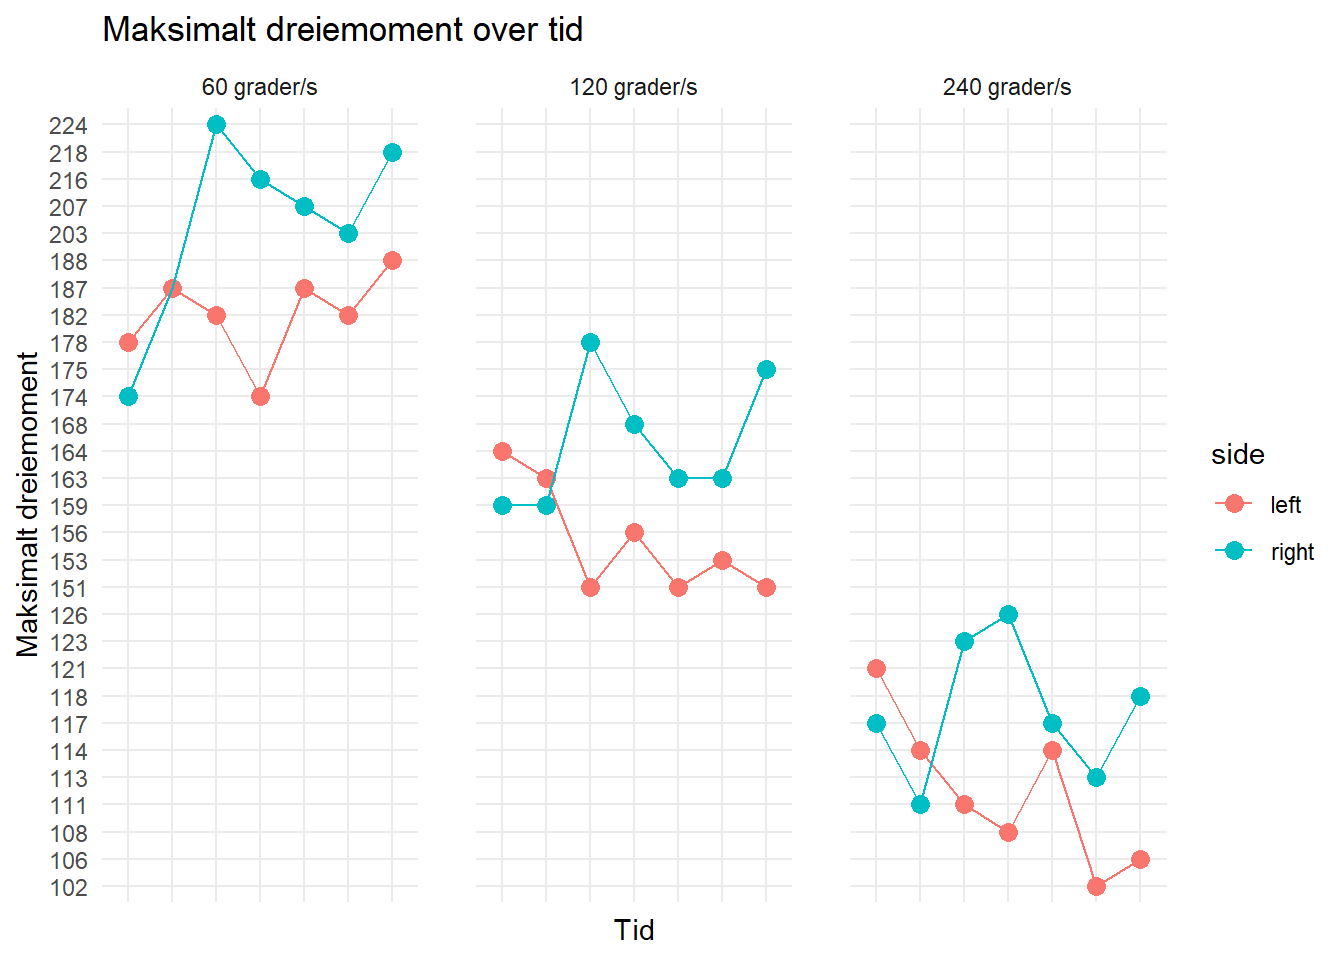
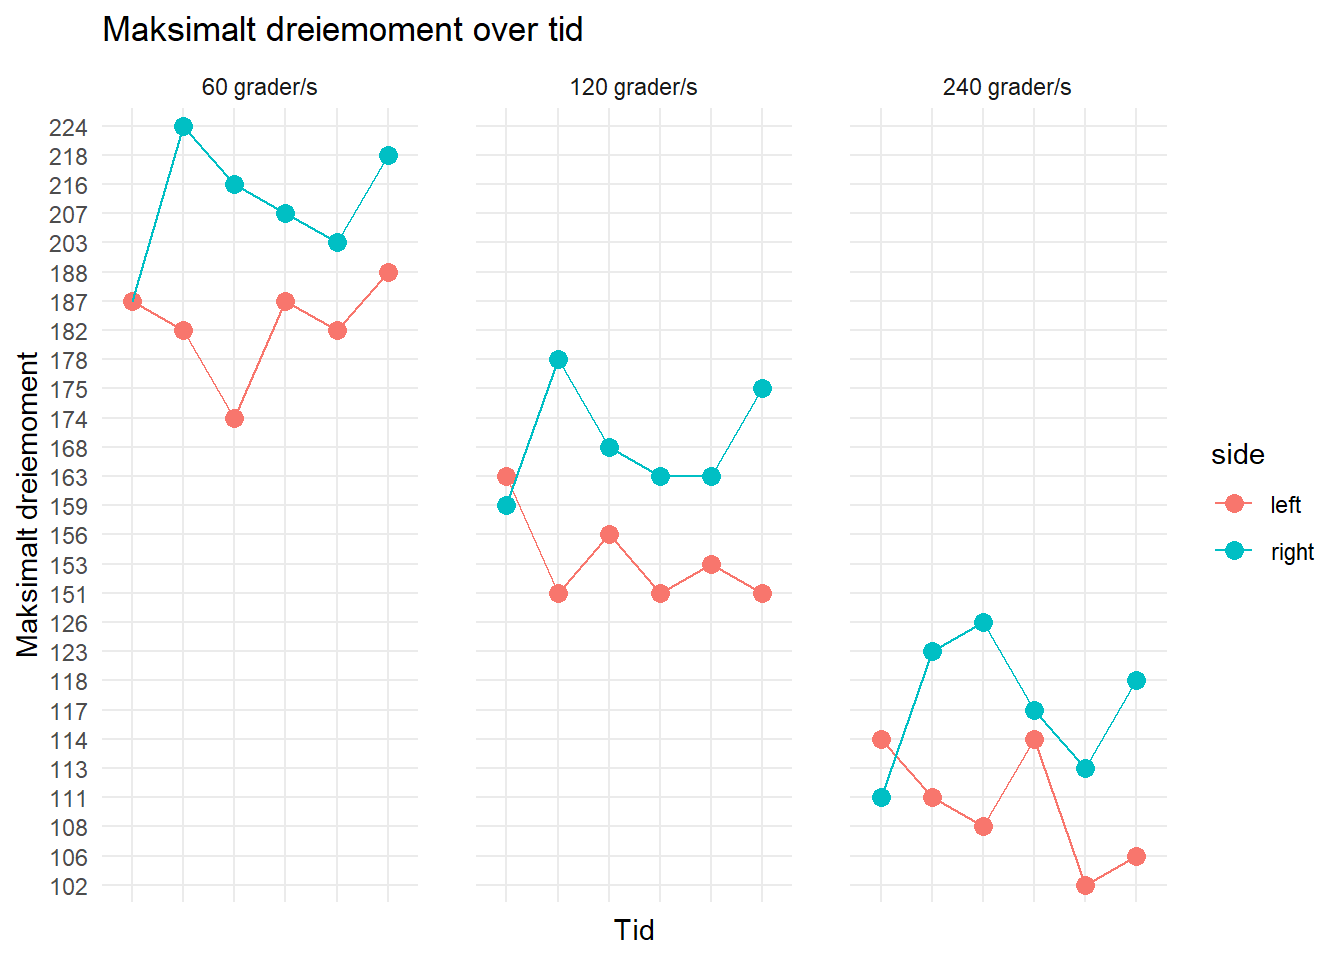
Skrevet ferdig resultater

diff --git a/Humac_analyse.html b/Humac_analyse.html
@@ -234,98 +234,84 @@ ul.task-list li input[type="checkbox"] {
 </thead>
 <tbody>
 <tr class="odd">
-<td><strong>Pre-test</strong></td>
-<td>Høyre</td>
-<td>174</td>
-<td>159</td>
-<td>117</td>
-</tr>
-<tr class="even">
-<td><strong>Pre-test</strong></td>
-<td>Venstre</td>
-<td>178</td>
-<td>164</td>
-<td>121</td>
-</tr>
-<tr class="odd">
-<td>Test 1</td>
+<td>Pre-test</td>
 <td>Høyre</td>
 <td>187</td>
 <td>159</td>
 <td>111</td>
 </tr>
 <tr class="even">
-<td>Test 1</td>
+<td>Pre-test</td>
 <td>Venstre</td>
 <td>187</td>
 <td>163</td>
 <td>114</td>
 </tr>
 <tr class="odd">
-<td>Test 2</td>
+<td>Test 1</td>
 <td>Høyre</td>
 <td>224</td>
 <td>178</td>
 <td>123</td>
 </tr>
 <tr class="even">
-<td>Test 2</td>
+<td>Test 1</td>
 <td>Venstre</td>
 <td>182</td>
 <td>151</td>
 <td>111</td>
 </tr>
 <tr class="odd">
-<td>Test 3</td>
+<td>Test 2</td>
 <td>Høyre</td>
 <td>216</td>
 <td>168</td>
 <td>126</td>
 </tr>
 <tr class="even">
-<td>Test 3</td>
+<td>Test 2</td>
 <td>Venstre</td>
 <td>174</td>
 <td>156</td>
 <td>108</td>
 </tr>
 <tr class="odd">
-<td>Test 4</td>
+<td>Test 3</td>
 <td>Høyre</td>
 <td>207</td>
 <td>163</td>
 <td>117</td>
 </tr>
 <tr class="even">
-<td>Test 4</td>
+<td>Test 3</td>
 <td>Venstre</td>
 <td>187</td>
 <td>151</td>
 <td>114</td>
 </tr>
 <tr class="odd">
-<td>Test 5</td>
+<td>Test 4</td>
 <td>Høyre</td>
 <td>203</td>
 <td>163</td>
 <td>113</td>
 </tr>
 <tr class="even">
-<td>Test 5</td>
+<td>Test 4</td>
 <td>Venstre</td>
 <td>182</td>
 <td>153</td>
 <td>102</td>
 </tr>
 <tr class="odd">
-<td><strong>Test 6</strong></td>
+<td><strong>Test 5</strong></td>
 <td>Høyre</td>
 <td>218</td>
 <td>175</td>
 <td>118</td>
 </tr>
 <tr class="even">
-<td><strong>Test 6</strong></td>
+<td><strong>Test 5</strong></td>
 <td>Venstre</td>
 <td>188</td>
 <td>151</td>
@@ -393,8 +379,8 @@ ul.task-list li input[type="checkbox"] {
 <section id="variasjonskoeffisient" class="level3">
 <h3 class="anchored" data-anchor-id="variasjonskoeffisient">Variasjonskoeffisient</h3>
 <p>Variasjonskoeffisienten (VK) beskriver spredningen av data relativt til gjenomsnittet (Atkinson &amp; Nevill, 1988). I vår studie kan VK være et nyttig verktøy for å vurdere konsistensen til målingene til deltakeren i maksimalt dreiemoment mellom de syv ulike testene. En lav VK (&lt;5%) vil indikere høy konsistens mellom målingene, mens en høy VK (&gt;10%) vil indikere større variasjon mellom målingene.</p>
-<section id="tabell-5-variasjonskoeffisient-fra-pre-test-til-test-6" class="level4">
-<h4 class="anchored" data-anchor-id="tabell-5-variasjonskoeffisient-fra-pre-test-til-test-6">Tabell 5: Variasjonskoeffisient fra pre-test til test 6</h4>
+<section id="tabell-5-variasjonskoeffisient-mellom-testene" class="level4">
+<h4 class="anchored" data-anchor-id="tabell-5-variasjonskoeffisient-mellom-testene">Tabell 5: Variasjonskoeffisient mellom testene</h4>
 <table class="caption-top table">
 <thead>
 <tr class="header">
@@ -460,11 +446,23 @@ ul.task-list li input[type="checkbox"] {
 </section>
 <section id="diskusjon" class="level2">
 <h2 class="anchored" data-anchor-id="diskusjon">Diskusjon</h2>
-<section id="metodiske-styrker-og-begrensninger" class="level3">
-<h3 class="anchored" data-anchor-id="metodiske-styrker-og-begrensninger">Metodiske styrker og begrensninger</h3>
-<p>Valget for innhenting av data med R-kode istedet for å plotte inn dataene manuelt, er for å styrke graden av reproduserbarhet til rapporten vår.</p>
-<p>Vi har forsøkt å redusere effekten av konfunderende variabler ved å standardisere så mye av testprosessen som mulig.</p>
-<p>SEM (Standard error of measurement) i form av biologiske faktorer og målefeil kan påvirke resultatene med 5 - 10 % (kilde)</p>
+<section id="diskusjon-1" class="level3">
+<h3 class="anchored" data-anchor-id="diskusjon-1">## Diskusjon</h3>
+<p>Formålet med denne studien var å undersøke effekten av tre uker styrketrening på maksimalt dreiemoment i kneekstensjon hos en elitesprintsyklist. Resultatene viste en økning i maksimalt dreiemoment ved lav vinkelhastighet (60°/s), spesielt for høyre ben (+25,3 %), mens endringene ved høyere hastigheter (120°/s og 240°/s) var små eller negative. Disse funnene støtter delvis hypotesen om at styrketrening øker maksimal styrke, men effekten ser ut til å være spesifikk for lavere bevegelseshastigheter.</p>
+<p>Sammenheng med tidligere forskning</p>
+<p>Økningen i dreiemoment ved lav hastighet stemmer godt overens med tidligere studier som viser at tung styrketrening forbedrer maksimal muskelstyrke og kraftutvikling, (Rønnestad et al., 2010). Rønnestad et al.&nbsp;(2010) viste at veltrente syklister som kombinerte styrketrening med utholdenhetstrening økte både muskelstyrke og størrelse på quadriceps, i tillegg forbedret prestasjon relatert til sprint. Martin et al.&nbsp;(2007) fremhever at sprintsyklistens prestasjon er avhengig av samhandlingen mellom muskelkraft og bevegelseshastighet, og at økt maksimal kraft i kneekstensjon kan bidra til høyere akselerasjon og topphastighet i banen. Dermed kan styrke økningene ved 60°/s ha en overføringsverdi til akselerasjonsfasen i sprintsykling.</p>
+<p>At økningene falt bort ved høyere vinkelhastigheter (120°/s og 240°/s) samsvarer med tidligere funn fra Dorel et al.&nbsp;(2005), som viste at sammenhengen mellom dreiemoment og hastighet er ikke-lineær, og at maksimalt dreiemoment reduseres når bevegelseshastigheten øker. For å forbedre prestasjon ved høyere hastigheter kreves ofte mer spesifikk trening som eksplosiv styrketrening, og hastighetsbasert styrke eller plyometriske øvelser (Cormie et al., 2011) (legg til denne i literrautlista)</p>
+<p>### Metodiske styrker og begrensninger</p>
+<p>Reliabilitet handler om hvor pålitelig og konsistent et måleverktøy, altså om det gir samme resultat ved gjentatte tester under standardiserte forhold. HUMAC isokinetisk dynamometer har vist høy test–retest reliabilitet og intrarater reliabilitet ved måling av styrke i underekstremitetene. Og er kjent som gullstandarden (Stark et al., 2011). Dette betyr at apparatet kan gi stabile målinger under standardiserte forhold.</p>
+<p>I denne casestudien ble det gjort seks tester med samme testleder, under standardiserte betingelser med lik oppvarming, samme tidspunkt på dagen og ernæring. Dette bidrar til høy intrarater reliabilitet.</p>
+<p>Totalt sett viser analysen at deltakerens maksimale dreiemoment ble målt på en konsistent måte gjennom testene. Et moderat SD under 10 % anses som akseptabelt i isokinetiske tester (Hopkins, 2000), og funnene i denne studien støtter at målingene var både stabile og pålitelige gjennom hele testperioden.</p>
+<p>Validitet refererer til hvor godt en test måler det den er ment å måle. HUMAC isokinetisk dynamometer har vist høy validitet for måling av muskelstyrke i underekstremitetene, noe som betyr at målingene reflekterer faktisk kraftproduksjon i muskelen.</p>
+<p>I denne case-studien gir HUMAC mulighet til å registrere både små og store endringer i muskelstyrke over tid, slik som økningen i kneekstensjon på høyre ben ved 60°/s (+25,3 %). Selv om mindre endringer eller negative verdier kan forekomme. Slik som den observerte økningen i kneekstensjon på høyre ben. Variasjonen som ble observert, på venstre ben ved høyere, kan tilskrives biologisk variasjon, tretthet og rekkefølgen på testene, men det påvirker ikke validiteten til apparatet.</p>
+<p>Variabilitet beskriver hvor mye måleresultatene sprer seg rundt et gjennomsnitt, og er en viktig faktor å vurdere når man tolker endringer i styrke over tid.</p>
+<p>I denne case-studien med seks tester hos en elitesprint syklist var variasjonen størst på venstre bein ved høyere hastigheter, mens høyre bein viste relativt små variasjoner, spesielt ved 60°/s (+25,3 %). Dette indikerer at målingene på høyre bein hadde lavere intra-subjekt variabilitet, det kan hende venstre bein kan ha vært mer påvirket av at venstre beinet ble testet etter høyre i hver av seks testene.</p>
+<p>Standardavvik (SD) og variasjonskoeffisient (CV) ble brukt for å vurdere konsistensen i målingene mellom testene for både høyre og venstre bein. SD gir et mål på den absolutte spredningen rundt gjennomsnittet, mens CV uttrykker denne spredningen relativt til gjennomsnittet.</p>
+<p>Som vist i tabell 5, var både SD og CV generelt lave for begge bein, noe som indikerer at målingene var stabile og repeterbare. Dette tyder på høy reliabilitet i testprotokollen, spesielt ved hastigheter der CV var rundt 5 %. Enkelte hastigheter viste en noe høyere CV, noe som kan skyldes naturlige variasjoner i prestasjon, teknikk eller tretthet.</p>
+<p>Likevel finnes det flere begrensninger. For det første ble studien gjennomført på én deltaker, noe som gjør resultatene ikke-generaliserbare. For det andre ble det ikke inkludert noen form kontrollgruppe, og eventuelle forbedringer kan være vanskelig å skille fra læringseffekten. Selv om deltager gjennomførte to tilvenningsøkter (Hopkins, 2000). I tillegg var intervensjonsperioden relativt kort (tre uker) og det gjør det vanskeligere å diktere forbedringer i styrke, det er sannsynlig at en lengre periode ville gitt større forbedringer og en bedre kraftproduksjon.</p>
 </section>
 </section>
 <section id="referanseliste" class="level2">
